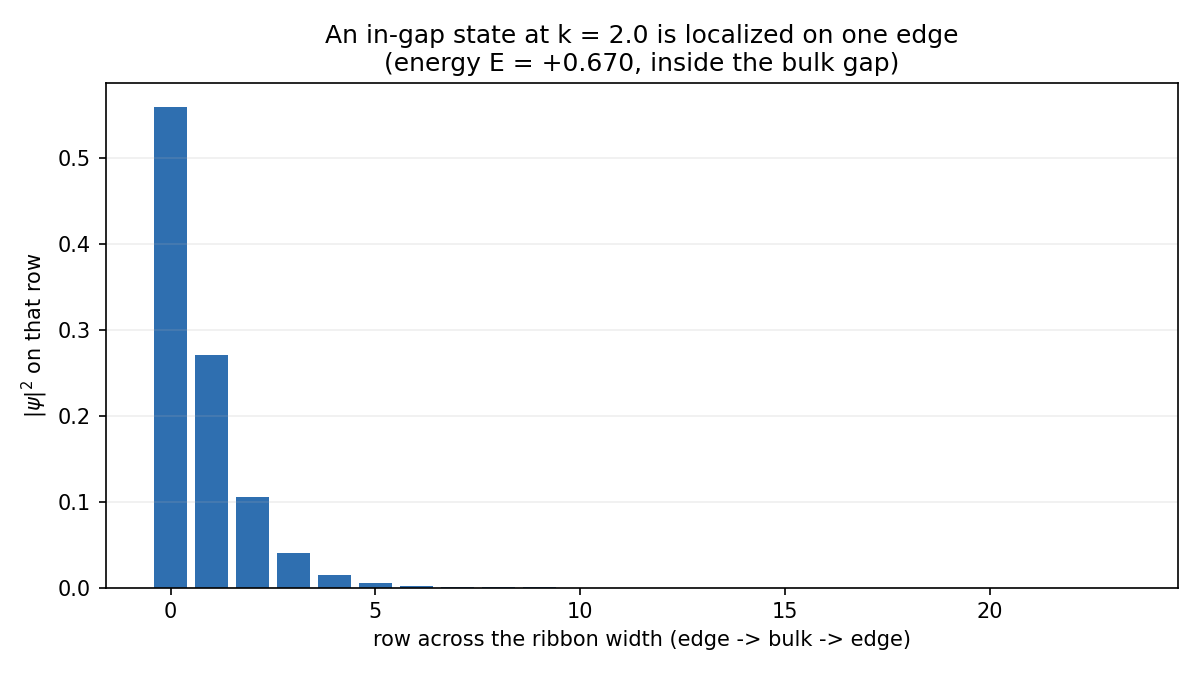
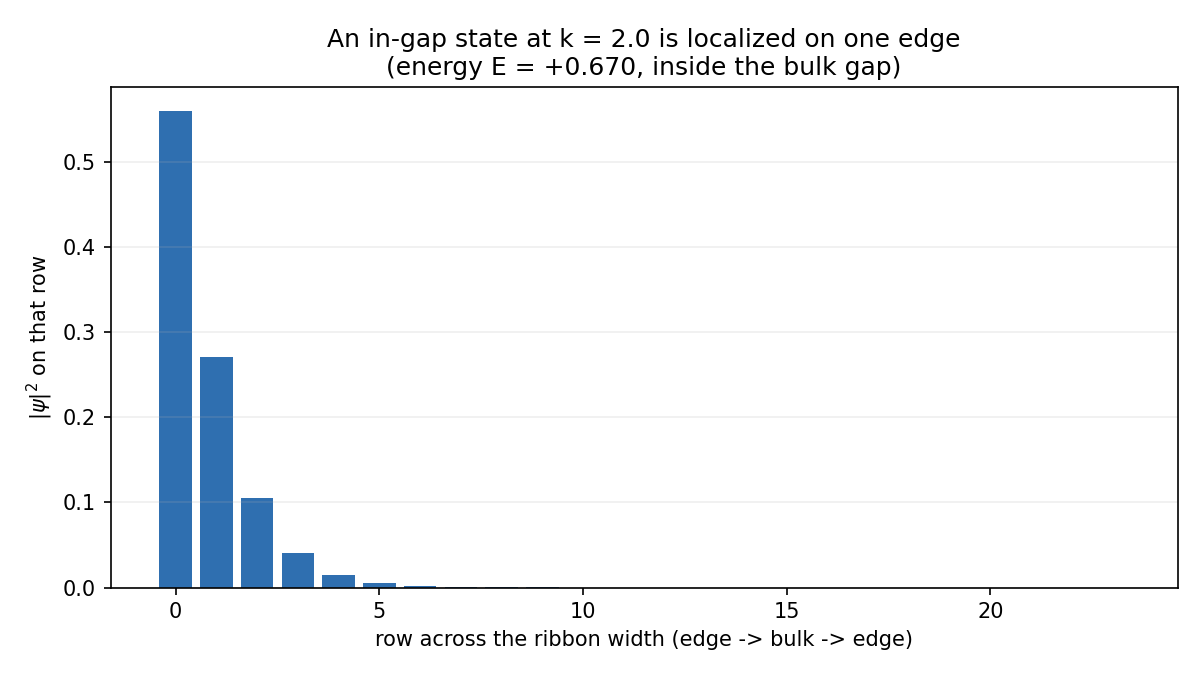
Clean up comments and docs

diff --git a/explore.py b/explore.py
@@ -1,25 +1,15 @@
 """
 Interactive explorer for the QWZ topological model.
 
-Run it from the project root:
-
     python explore.py
 
-A window opens with sliders. Drag the "mass parameter u" slider and watch three
-things update live:
+Drag the mass slider and the bands, Berry curvature map, and Chern number all
+update live, along with a marker on the phase diagram below showing where you
+are on the u axis.
 
-  * the band structure (left) and its gap,
-  * the Berry curvature over the Brillouin zone (right),
-  * a status banner showing the Chern number and whether the phase is
-    topological or trivial.
-
-Below, the phase diagram shows the full staircase of Chern number vs u, with a
-moving marker for where you currently are.
-
-Note: this opens an interactive desktop window, so run it on a normal computer
-(not a headless/remote shell). If no window appears, your matplotlib may lack a
-GUI backend; the static scripts (run_bands.py, run_chern.py, run_phase_diagram.py)
-work everywhere and produce the same figures as image files.
+This needs a display -- if no window opens (headless/remote shell), use
+run_bands.py / run_chern.py / run_phase_diagram.py instead, which save the
+same figures as images.
 """
 
 import numpy as np
@@ -30,9 +20,7 @@ from topo.models import qwz_energies, qwz_path, brillouin_grid, qwz_hamiltonian_
 from topo.berry import berry_curvature_field
 
 
-# ---------------------------------------------------------------------------
 # Appearance
-# ---------------------------------------------------------------------------
 BG = "#f4f4f2"
 INK = "#22252a"
 LOWER_COLOR = "#2f6fb0"
@@ -54,13 +42,11 @@ plt.rcParams.update({
 })
 
 
-# ---------------------------------------------------------------------------
-# Precompute the fixed pieces (done once)
-# ---------------------------------------------------------------------------
+# Fixed pieces that don't depend on the sliders, so compute them once.
 PATH_KX, PATH_KY, PATH_TICKS, PATH_LABELS = qwz_path(n_per_segment=160)
 PATH_INDEX = np.arange(len(PATH_KX))
 
-# The phase-diagram staircase is independent of the slider, so compute it once.
+# The phase-diagram staircase is independent of the slider too.
 PHASE_U = np.arange(-4.0, 4.0 + 1e-9, 0.1) + 0.005
 _PHASE_KX, _PHASE_KY = brillouin_grid(40)
 PHASE_C = np.array([
@@ -79,9 +65,6 @@ def band_curves(u):
     return lower, upper
 
 
-# ---------------------------------------------------------------------------
-# Figure layout
-# ---------------------------------------------------------------------------
 fig = plt.figure(figsize=(13.5, 8.6))
 fig.canvas.manager.set_window_title("QWZ Topological Explorer")
 
@@ -111,9 +94,7 @@ slider_grid = Slider(ax_grid, "grid  N", 20, 100, valinit=45, valstep=5,
                      color="#6b7280")
 
 
-# ---------------------------------------------------------------------------
-# Static parts of the phase diagram
-# ---------------------------------------------------------------------------
+# Static parts of the phase diagram.
 ax_phase.step(PHASE_U, PHASE_C, where="mid", lw=2.2, color=ACCENT)
 for uc in (-2, 0, 2):
     ax_phase.axvline(uc, color="#c94b4b", ls="--", lw=1, alpha=0.6)
@@ -126,20 +107,18 @@ phase_marker = ax_phase.axvline(slider_u.valinit, color=INK, lw=2)
 phase_dot, = ax_phase.plot([], [], "o", color=INK, ms=9, zorder=5)
 
 
-# ---------------------------------------------------------------------------
-# The update function: everything that depends on the sliders
-# ---------------------------------------------------------------------------
 def update(_=None):
+    """Redraw everything that depends on the sliders."""
     u = slider_u.val
     n_grid = int(slider_grid.val)
 
-    # --- Berry curvature + Chern number (one computation, reused) ---
+    # Berry curvature + Chern number, computed once and reused below.
     field = berry_curvature_field(qwz_hamiltonian_grid(*brillouin_grid(n_grid), u))
     chern = int(round(field.sum() / (2 * np.pi)))
     area = (2 * np.pi / n_grid) ** 2
     density = field / area
 
-    # --- Bands ---
+    # Bands
     lower, upper = band_curves(u)
     ax_bands.clear()
     ax_bands.plot(PATH_INDEX, lower, lw=2.2, color=LOWER_COLOR, label="lower band")
@@ -156,7 +135,7 @@ def update(_=None):
     ax_bands.text(0.03, 0.04, f"min gap = {gap:.2f}", transform=ax_bands.transAxes,
                   fontsize=9, color="#555")
 
-    # --- Berry curvature heatmap ---
+    # Berry curvature heatmap
     ax_berry.clear()
     vmax = max(np.abs(density).max(), 1e-9)
     im = ax_berry.imshow(density.T, origin="lower",
@@ -166,11 +145,11 @@ def update(_=None):
     ax_berry.set_ylabel(r"$k_y$")
     ax_berry.set_title("Berry curvature over the Brillouin zone")
 
-    # --- Phase-diagram marker ---
+    # Phase-diagram marker
     phase_marker.set_xdata([u, u])
     phase_dot.set_data([u], [chern])
 
-    # --- Status banner ---
+    # Status banner
     if chern == 0:
         banner.set_text(f"TRIVIAL     C = {chern:+d}")
         banner_box["facecolor"] = TRIVIAL_BG
@@ -184,7 +163,6 @@ def update(_=None):
     fig.canvas.draw_idle()
 
 
-# A single reusable colorbar for the heatmap.
 _probe = berry_curvature_field(
     qwz_hamiltonian_grid(*brillouin_grid(int(slider_grid.valinit)), slider_u.valinit))
 _area = (2 * np.pi / int(slider_grid.valinit)) ** 2

diff --git a/explore_haldane.py b/explore_haldane.py
@@ -3,23 +3,17 @@ Interactive explorer for the Haldane model.
 
     python explore_haldane.py
 
-Three sliders let you dial the physics directly:
-
-  * m   : staggered sublattice mass (breaks inversion symmetry)
-  * phi : next-nearest-neighbor phase (breaks time-reversal symmetry)
-  * t2  : next-nearest-neighbor hopping strength
-
-Watch, live:
-  - the band structure along Gamma -> K -> M -> K' -> Gamma,
-  - the Berry curvature over the Brillouin zone,
-  - your current location as a dot on the (phi, m/t2) phase diagram,
-  - a banner giving the Chern number and whether the phase is topological.
+Three sliders control the physics directly: m (staggered sublattice mass),
+phi (the next-nearest-neighbor phase that breaks time-reversal symmetry), and
+t2 (next-nearest-neighbor hopping strength). Dragging them updates the band
+structure, the Berry curvature map, your position on the (phi, m/t2) phase
+diagram, and the Chern number banner, all live.
 
 The dashed curves on the phase diagram are the exact boundaries
-m/t2 = +/- 3*sqrt(3)*sin(phi); drag across one and watch the Chern number jump.
+m/t2 = +/- 3*sqrt(3)*sin(phi); cross one and watch the Chern number jump.
 
-This opens an interactive desktop window (run it on a normal computer). If no
-window appears, use run_haldane.py, which saves the same figures as images.
+Needs a display. If no window appears, use run_haldane.py instead, which
+saves the same figures as images.
 """
 
 import numpy as np
@@ -31,9 +25,7 @@ from topo.models import (honeycomb_grid, haldane_hamiltonian_grid,
 from topo.berry import berry_curvature_field
 
 
-# ---------------------------------------------------------------------------
 # Appearance
-# ---------------------------------------------------------------------------
 BG = "#f4f4f2"
 INK = "#22252a"
 LOWER_COLOR = "#2f6fb0"
@@ -48,13 +40,11 @@ plt.rcParams.update({
     "xtick.color": INK, "ytick.color": INK, "font.size": 11, "axes.titlesize": 12,
 })
 
-# ---------------------------------------------------------------------------
-# Fixed pieces
-# ---------------------------------------------------------------------------
 PATH_KX, PATH_KY, PATH_TICKS, PATH_LABELS = haldane_path(n_per_segment=140)
 PATH_INDEX = np.arange(len(PATH_KX))
 
-# Precompute the (phi, m/t2) phase-diagram background once.
+# Precompute the (phi, m/t2) phase-diagram background once, since it doesn't
+# depend on the sliders.
 PD_PHI = np.linspace(-np.pi, np.pi, 90)
 PD_MR = np.linspace(-6.0, 6.0, 90)
 _PD_KX, _PD_KY = honeycomb_grid(22)
@@ -75,9 +65,6 @@ def band_curves(m, t2, phi):
     return lower, upper
 
 
-# ---------------------------------------------------------------------------
-# Layout
-# ---------------------------------------------------------------------------
 fig = plt.figure(figsize=(13.5, 8.8))
 fig.canvas.manager.set_window_title("Haldane Model Explorer")
 
@@ -118,6 +105,7 @@ phase_dot, = ax_phase.plot([], [], "o", color="black", ms=11,
 
 
 def update(_=None):
+    """Redraw everything that depends on the sliders."""
     m = slider_m.val
     phi = slider_phi.val
     t2 = slider_t2.val
@@ -169,7 +157,6 @@ def update(_=None):
     fig.canvas.draw_idle()
 
 
-# Reusable colorbar for the curvature panel.
 _p = berry_curvature_field(haldane_hamiltonian_grid(*honeycomb_grid(45)))
 _vmax = max(np.abs(_p).max(), 1e-9)
 _im0 = ax_berry.imshow(np.zeros((2, 2)), origin="lower", extent=[0, 1, 0, 1],

diff --git a/topo/models.py b/topo/models.py
@@ -21,9 +21,7 @@ import numpy as np
 
 _SQRT3 = np.sqrt(3.0)
 
-# ---------------------------------------------------------------------------
-# Pauli matrices (used by the scalar convenience Hamiltonians below)
-# ---------------------------------------------------------------------------
+# Pauli matrices, used by the Hamiltonians below.
 SIGMA_X = np.array([[0, 1], [1, 0]], dtype=complex)
 SIGMA_Y = np.array([[0, -1j], [1j, 0]], dtype=complex)
 SIGMA_Z = np.array([[1, 0], [0, -1]], dtype=complex)
@@ -97,9 +95,7 @@ def honeycomb_grid(n_grid):
     return KX, KY
 
 
-# ===========================================================================
-# Model 1: Qi-Wu-Zhang (square lattice)
-# ===========================================================================
+# --- Model 1: Qi-Wu-Zhang (square lattice) --------------------------------
 #
 #   d_x = sin(kx)
 #   d_y = sin(ky)
@@ -136,9 +132,7 @@ def qwz_energies(kx, ky, u):
     return -mag, mag
 
 
-# ===========================================================================
-# Model 2: Haldane (honeycomb lattice)
-# ===========================================================================
+# --- Model 2: Haldane (honeycomb lattice) ----------------------------------
 #
 # The honeycomb lattice has two sublattices, A and B. Three ingredients:
 #   t1  : ordinary nearest-neighbor hopping (A <-> B). Gives the graphene cones.
@@ -245,9 +239,7 @@ def haldane_dirac_masses(m=0.0, t2=0.15, phi=np.pi / 2):
     return m - shift, m + shift
 
 
-# ---------------------------------------------------------------------------
-# Band-structure paths through high-symmetry points
-# ---------------------------------------------------------------------------
+# Band-structure paths through high-symmetry points.
 def _path_through(corners, labels, n_per_segment):
     kxs, kys, ticks = [], [], [0]
     for a, b in zip(corners[:-1], corners[1:]):

diff --git a/topo/__init__.py b/topo/__init__.py
@@ -1,22 +1,8 @@
 """
 topo: a small toolkit for two-band topological lattice models.
 
-It contains two models and one shared engine for the topology:
-
-models
-------
-- Qi-Wu-Zhang (QWZ): the simplest Chern insulator, on a square lattice.
-- Haldane: the honeycomb-lattice model that started the whole field.
-
-engine
-------
-- berry: the Fukui-Hatsugai-Suzuki Chern-number calculation. It works on *any*
-  two-band model, because it only ever sees the Hamiltonian evaluated on a grid.
-  Building both models on top of the same engine is the point: the topology
-  machinery is universal, only the Hamiltonian changes.
-
-modules
--------
-models : both Bloch Hamiltonians, their energies, geometry, and BZ paths
-berry  : Berry curvature and Chern number (model-agnostic)
+models.py has the QWZ and Haldane Bloch Hamiltonians (energies, geometry, BZ
+paths). berry.py has the Fukui-Hatsugai-Suzuki Chern number calculation, which
+is model-agnostic -- it only ever sees a Hamiltonian evaluated on a grid, so
+both models plug into the same engine.
 """

diff --git a/run_bands.py b/run_bands.py
@@ -1,5 +1,5 @@
 """
-QWZ Milestone 1: band structure. Watch the gap open and close.
+QWZ band structure. Watch the gap open and close as u changes.
 
     python run_bands.py
 

diff --git a/run_phase_diagram.py b/run_phase_diagram.py
@@ -1,5 +1,5 @@
 """
-QWZ Milestone 3: the topological phase diagram (headline result).
+QWZ topological phase diagram.
 
     python run_phase_diagram.py
 

diff --git a/run_chern.py b/run_chern.py
@@ -1,5 +1,5 @@
 """
-QWZ Milestone 2: Chern number and Berry curvature map.
+QWZ Chern number and Berry curvature map.
 
     python run_chern.py
 
